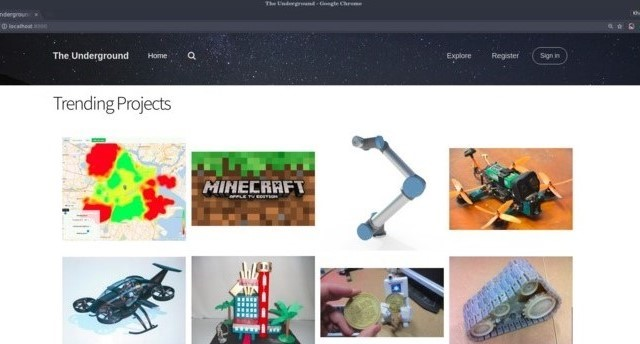
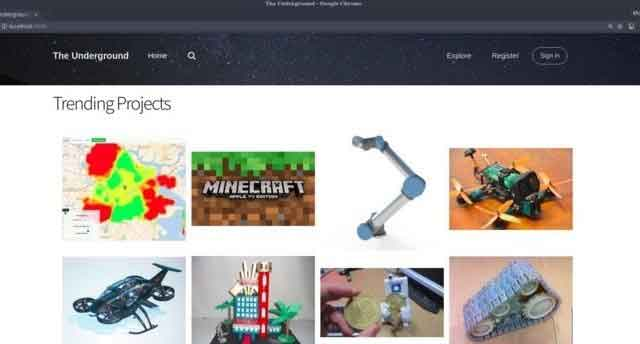
Reduce images' size

diff --git a/portfolio/post_sudoku.html b/portfolio/post_sudoku.html
@@ -216,7 +216,7 @@
                     </p>
                     <div class="card reverse hoverable d-block mb-3" style="width: fit-content; max-width: 560px;">
                         <div class="view">
-                            <img src="../img/post_sudoku_7.png" alt="Sudoku raw picture" class="img-fluid">
+                            <img src="../img/post_sudoku_7.jpg" alt="Sudoku raw picture" class="img-fluid">
                             <div class="mask"></div>
                         </div>
                         <div class="card-body text-center">
@@ -233,7 +233,7 @@
                     </p>
                     <div class="card hoverable d-block mb-3" style="width: fit-content; max-width: 560px">
                         <div class="view" align="center">
-                            <img src="../img/post_sudoku_9.png" alt="Sudoku picture processed" class="img-fluid">
+                            <img src="../img/post_sudoku_9.jpg" alt="Sudoku picture processed" class="img-fluid">
                             <div class="mask"></div>
                         </div>
                         <div class="card-body text-center">
@@ -249,7 +249,7 @@
                     </p>
                     <div class="card hoverable d-block mb-3" style="width: fit-content;">
                         <div class="view" align="center">
-                            <img src="../img/post_sudoku_8.png" alt="Sudoku result" class="img-fluid">
+                            <img src="../img/post_sudoku_8.jpg" alt="Sudoku result" class="img-fluid">
                             <div class="mask"></div>
                         </div>
                         <div class="card-body text-center">
@@ -262,7 +262,7 @@
                     </p>
                     <div class="card hoverable d-block mb-3" style="width: fit-content;">
                         <div class="view" align="center">
-                            <img src="../img/post_sudoku_10.png" alt="A solved Sudoku puzzle" class="img-fluid">
+                            <img src="../img/post_sudoku_10.jpg" alt="A solved Sudoku puzzle" class="img-fluid">
                             <div class="mask"></div>
                         </div>
                         <div class="card-body text-center">

diff --git a/portfolio.html b/portfolio.html
@@ -97,7 +97,7 @@
                 <div class="col-lg-5 col-xl-5 pb-3">
                     <!--Featured image-->
                     <div class="view overlay hm-white-slight rounded z-depth-2">
-                        <img src="img/main_sudoku.png"
+                        <img src="img/main_sudoku.jpg"
                              alt="Sudoku picture"
                              class="img-fluid">
                         <a>
@@ -185,7 +185,7 @@
                 <div class="col-lg-5 col-xl-5 pb-3">
                     <!--Featured image-->
                     <div class="view overlay hm-white-slight rounded z-depth-2">
-                        <img src="img/main_iarc.PNG"
+                        <img src="img/main_iarc.jpg"
                              alt="PID Controller picture with drone and roomba" class="img-fluid">
                         <a>
                             <div class="mask"></div>
@@ -333,7 +333,7 @@
                 <div class="col-lg-5 col-xl-5 pb-3">
                     <!--Featured image-->
                     <div class="view overlay hm-white-slight rounded z-depth-2">
-                        <img src="img/main_xkcd_groupme.png"
+                        <img src="img/main_xkcd_groupme.jpg"
                              alt="xkcd picture" class="img-fluid">
                         <a>
                             <div class="mask"></div>

diff --git a/portfolio/post_iarc.html b/portfolio/post_iarc.html
@@ -104,7 +104,7 @@
                                         <div style="max-height: 70vh; background-color: #fafafa;" align="center">
                                             <img class="d-block img-fluid" style="max-height: 70vh; max-width: 100%;"
                                                  alt="Drone and roomba image"
-                                                 src="../img/post_iarc_1.PNG">
+                                                 src="../img/post_iarc_1.jpg">
                                             <div class="mask"></div>
                                         </div>
                                     </div>
